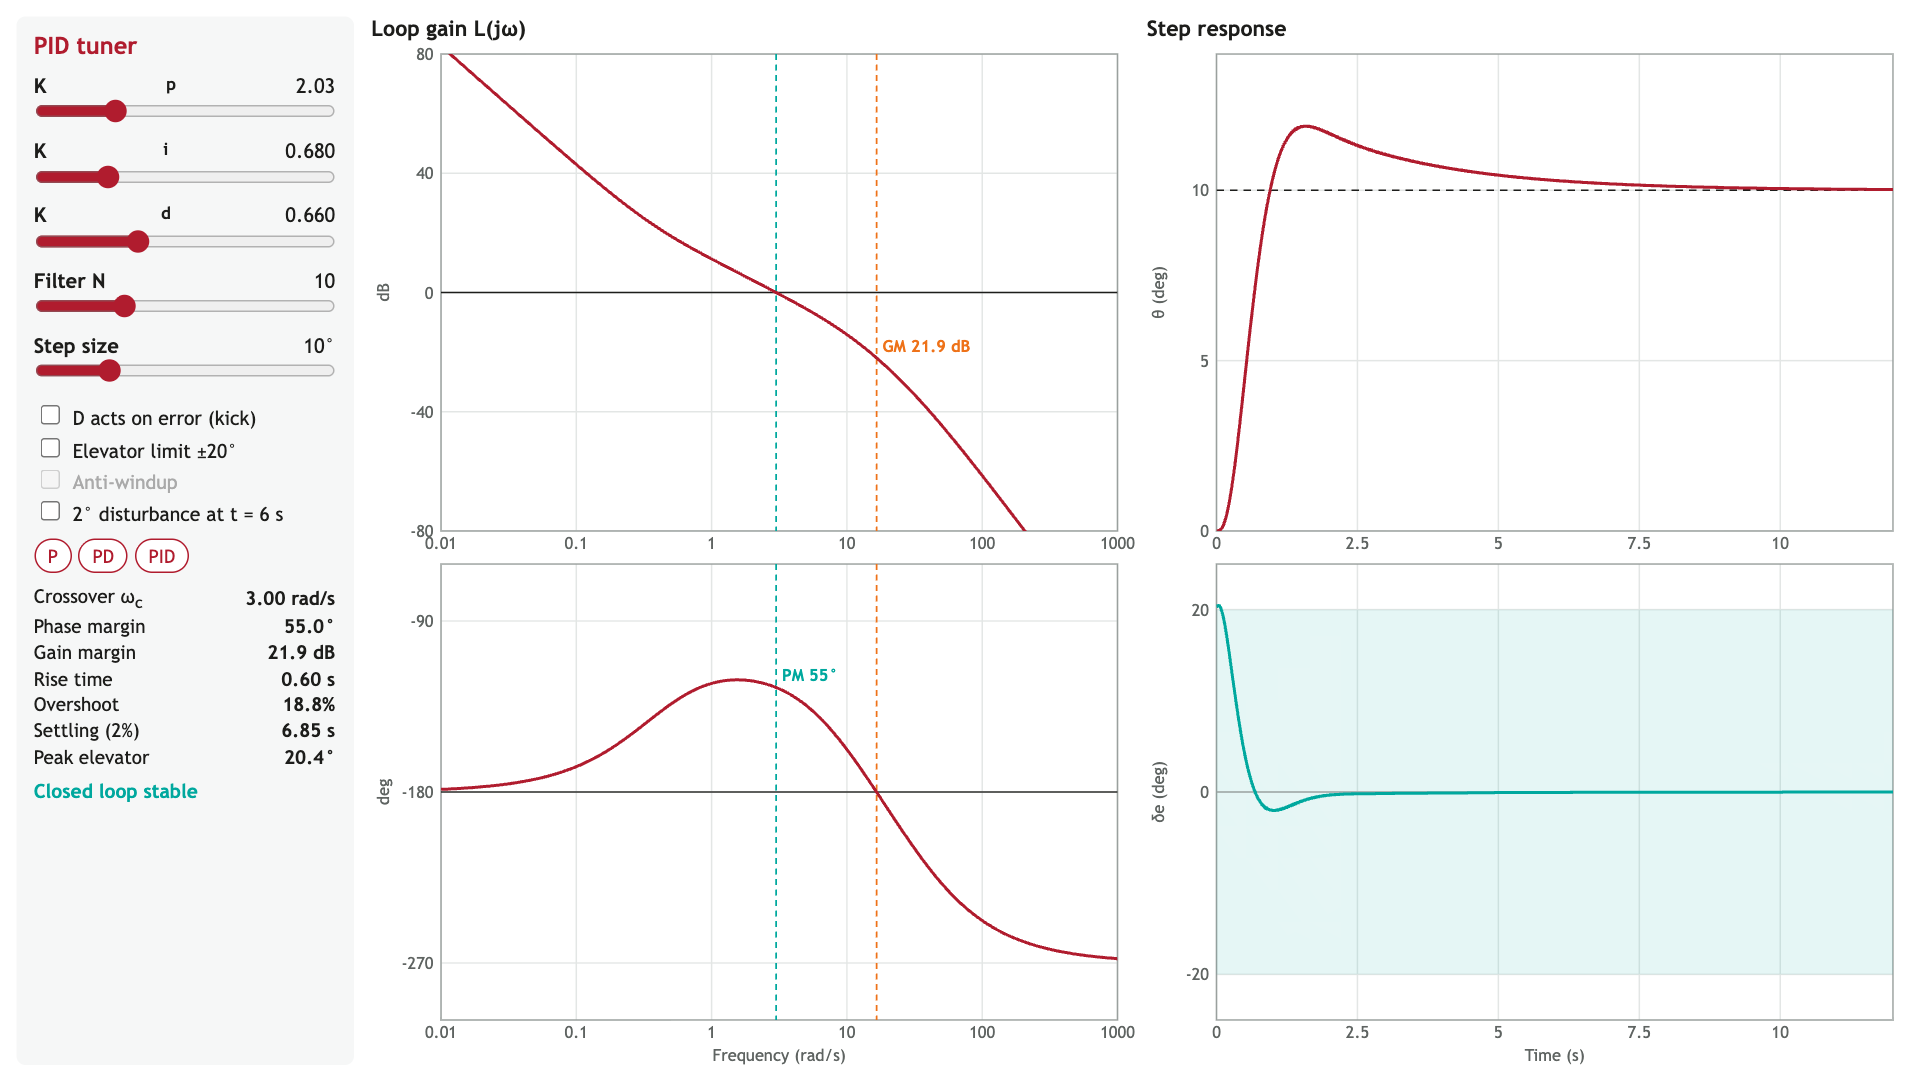
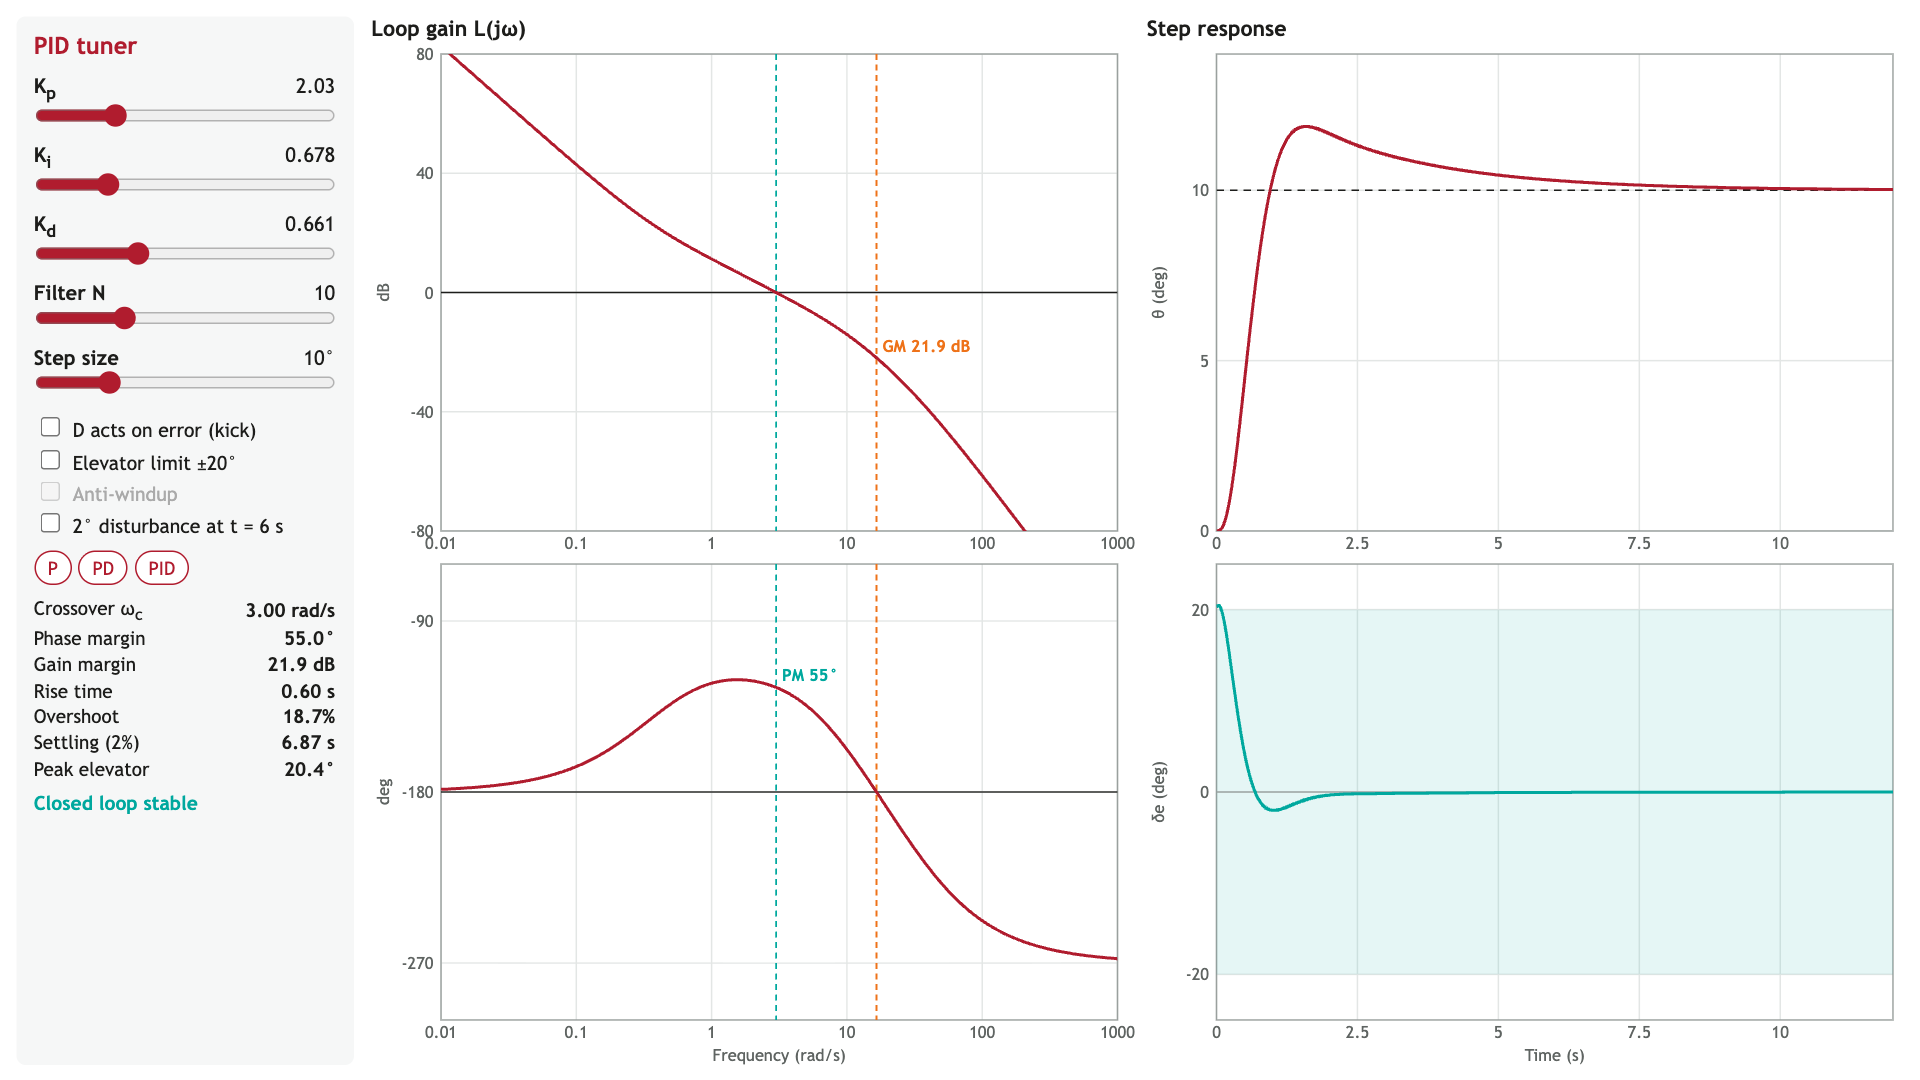
Finish Lecture 2 build: applet fixes, README, PDF links, sync baseline
- Applet: fix slider label layout, finer slider steps, skip drawing while hidden
- Home page links to the handout, example sheet, solutions and slide PDFs
- README with quick start, layout and commands; convenience npm scripts
- Accept the initial slide/handout sync baseline

Changed region(s): [[0.0, 0.0917, 0.1875, 0.7639], [0.125, 0.55, 0.1875, 0.7333]]

diff --git a/docs/applets/pid-tuner.html b/docs/applets/pid-tuner.html
@@ -48,11 +48,11 @@
 <main class="app">
   <section class="controls" aria-label="Controller settings">
     <h1>PID tuner</h1>
-    <div class="slider"><label for="kp">K<sub>p</sub> <output id="kp-out"></output></label><input id="kp" type="range" min="0.05" max="8" step="0.01"></div>
-    <div class="slider"><label for="ki">K<sub>i</sub> <output id="ki-out"></output></label><input id="ki" type="range" min="0" max="3" step="0.005"></div>
-    <div class="slider"><label for="kd">K<sub>d</sub> <output id="kd-out"></output></label><input id="kd" type="range" min="0" max="2" step="0.005"></div>
-    <div class="slider"><label for="n">Filter N <output id="n-out"></output></label><input id="n" type="range" min="2" max="30" step="1"></div>
-    <div class="slider"><label for="step">Step size <output id="step-out"></output></label><input id="step" type="range" min="1" max="40" step="1"></div>
+    <div class="slider"><label for="kp"><span>K<sub>p</sub></span><output id="kp-out"></output></label><input id="kp" type="range" min="0.05" max="8" step="0.001"></div>
+    <div class="slider"><label for="ki"><span>K<sub>i</sub></span><output id="ki-out"></output></label><input id="ki" type="range" min="0" max="3" step="0.001"></div>
+    <div class="slider"><label for="kd"><span>K<sub>d</sub></span><output id="kd-out"></output></label><input id="kd" type="range" min="0" max="2" step="0.001"></div>
+    <div class="slider"><label for="n"><span>Filter N</span><output id="n-out"></output></label><input id="n" type="range" min="2" max="30" step="1"></div>
+    <div class="slider"><label for="step"><span>Step size</span><output id="step-out"></output></label><input id="step" type="range" min="1" max="40" step="1"></div>
     <div class="opts">
       <label><input id="derr" type="checkbox"><span>D acts on error (kick)</span></label>
       <label><input id="lim" type="checkbox"><span>Elevator limit ±20°</span></label>
@@ -115,9 +115,11 @@ function niceTicks(lo, hi, count = 5) {
 }
 function plot(svg, cfg) {
   const { width: W, height: H } = svg.getBoundingClientRect();
+  const m = { l: 46, r: 8, t: 6, b: cfg.xlabel ? 30 : 16 };
+  // Hidden or not yet laid out (e.g. on an inactive slide): draw when visible.
+  if (W < m.l + m.r + 40 || H < m.t + m.b + 30) return;
   svg.setAttribute("viewBox", `0 0 ${W} ${H}`);
   svg.replaceChildren();
-  const m = { l: 46, r: 8, t: 6, b: cfg.xlabel ? 30 : 16 };
   const pw = W - m.l - m.r, ph = H - m.t - m.b;
   const tx = cfg.xlog ? Math.log10 : (v) => v;
   const [x0, x1] = cfg.xlim.map(tx), [y0, y1] = cfg.ylim;

diff --git a/README.md b/README.md
@@ -1,0 +1,63 @@
+# CADE30008 Flight Dynamics & Control
+
+Lecture handouts, slides, interactive applets, example sheets and worked solutions for CADE30008 at the University of Bristol.
+
+The site is built with [Zensical](https://zensical.org), and the slides with [Marp](https://marp.app) in the Bristol Flight Lab theme. Each lecture's numbers and plots come from a design script, with Python and MATLAB results checked against each other.
+
+## Quick start
+
+You need Python 3.10 or later, Node.js, Google Chrome, and [uv](https://docs.astral.sh/uv/) or pip.
+
+```bash
+uv venv .venv && uv pip install --python .venv/bin/python -r requirements.txt
+npm install
+npm run build
+npm run serve
+```
+
+Then open `http://localhost:8000`.
+
+## Layout
+
+| Path | Contents |
+|---|---|
+| `docs/` | The site. Each lecture has a folder holding its handout (`index.md`), example sheet, solutions, figures and code |
+| `docs/applets/` | Interactive applets, in plain HTML and JavaScript |
+| `slides/` | Lecture decks, one folder per lecture, matching `docs/` |
+| `models/` | Design scripts that produce every number and figure, plus the MATLAB cross-check |
+| `scripts/` | Build, sync-check, PDF and test scripts |
+| `AGENTS.md` | How to edit the materials, by hand or with an AI assistant |
+
+## Commands
+
+| Command | What it does |
+|---|---|
+| `npm run slides` | Build each deck to HTML and PDF in `docs/slides/` |
+| `npm run site` | Build the site into `site/` |
+| `npm run pdf` | Print handouts, example sheets and solutions to PDF |
+| `npm run check` | Check slides against handouts |
+| `npm run sync:accept` | Record the current state as in sync, after reviewing |
+| `npm run models` | Rerun the design scripts and compare Python with MATLAB |
+| `npm run stills` | Recapture applet stills for print |
+| `npm test` | Applet maths tests, then the sync check |
+| `npm run build` | Slides, site, PDFs, then the sync check |
+
+Stop `npm run serve` before running `npm run build`, because both use `site/`.
+
+## Keeping slides and handouts in sync
+
+The handout is authoritative. Each handout section has a stable ID, and each slide names the sections it covers in a comment, for example `<!-- handout: derivative -->`. `npm run check` reports three kinds of problem:
+
+- slides that cite sections that don't exist;
+- numbers on a slide that its cited sections don't contain;
+- sections that have changed since the last confirmed sync, together with the slides to revisit.
+
+See [AGENTS.md](AGENTS.md) for the full contract.
+
+## The slide theme
+
+`package.json` takes the Flight Lab Marp theme from a sibling folder, `../flightlab-marp-template`. Once the theme is published, change that dependency to `github:BristolFlightLab/marp-template` so that CI can install it.
+
+## Copyright
+
+Teaching content is © 2026 Dr. Steve Bullock. The University of Bristol and Bristol Flight Lab names, logos, colours and visual design are University brand assets, and are not licensed for reuse.

diff --git a/PLAN.md b/PLAN.md
@@ -66,9 +66,9 @@ Tick milestones and add notes to the log at the bottom as work lands.
 - [x] M4 Applets (PID tuner and any others), with fallback images
 - [x] M5 Lecture deck, speaker notes and handout citations
 - [x] M6 Example sheet and solutions, all code run in both languages
-- [ ] M7 Framework: sync checker, lock file, AGENTS.md, CI workflow, PDF script
-- [ ] M8 Build and verify: site, deck HTML and PDF, handout PDFs, screenshots, check passes
-- [ ] M9 Wrap-up: local server running, summary
+- [x] M7 Framework: sync checker, lock file, AGENTS.md, CI workflow, PDF script
+- [x] M8 Build and verify: site, deck HTML and PDF, handout PDFs, screenshots, check passes
+- [x] M9 Wrap-up: local server running, summary
 
 ## Log
 
@@ -84,3 +84,8 @@ Tick milestones and add notes to the log at the bottom as work lands.
   Next: browser verification, sync:accept, final build, commit, summary.
   The dev server runs via Bash on :8000, because preview_start reads the old
   project's launch.json.
+- 2026-09-15: M7-M9 done. Full build clean: 29-slide deck as HTML and PDF,
+  site, and handout, example-sheet and solutions PDFs. Sync baseline accepted
+  (initial authoring, no prior state), so the check reports 0 errors and 0
+  warnings. Applet fixes: label layout, 0.001 slider steps, and no drawing
+  while hidden. README added. Dev server restarted for Steve on :8000.

diff --git a/docs/index.md b/docs/index.md
@@ -22,4 +22,4 @@ Each lecture has four parts:
 Code appears in both Python and MATLAB. Pick your language on any code block, and the whole site will switch to it.
 
 !!! info "PDF copies"
-    Each page and deck can also be printed or saved as PDF. Interactive applets appear as still images in printed copies.
+    Lecture 2 as PDF: [handout](downloads/l02-pid-control-handout.pdf), [example sheet](downloads/l02-pid-control-example-sheet.pdf), [solutions](downloads/l02-pid-control-solutions.pdf) and [slides](slides/l02-pid-control/slides.pdf). Interactive applets appear as still images in printed copies.
